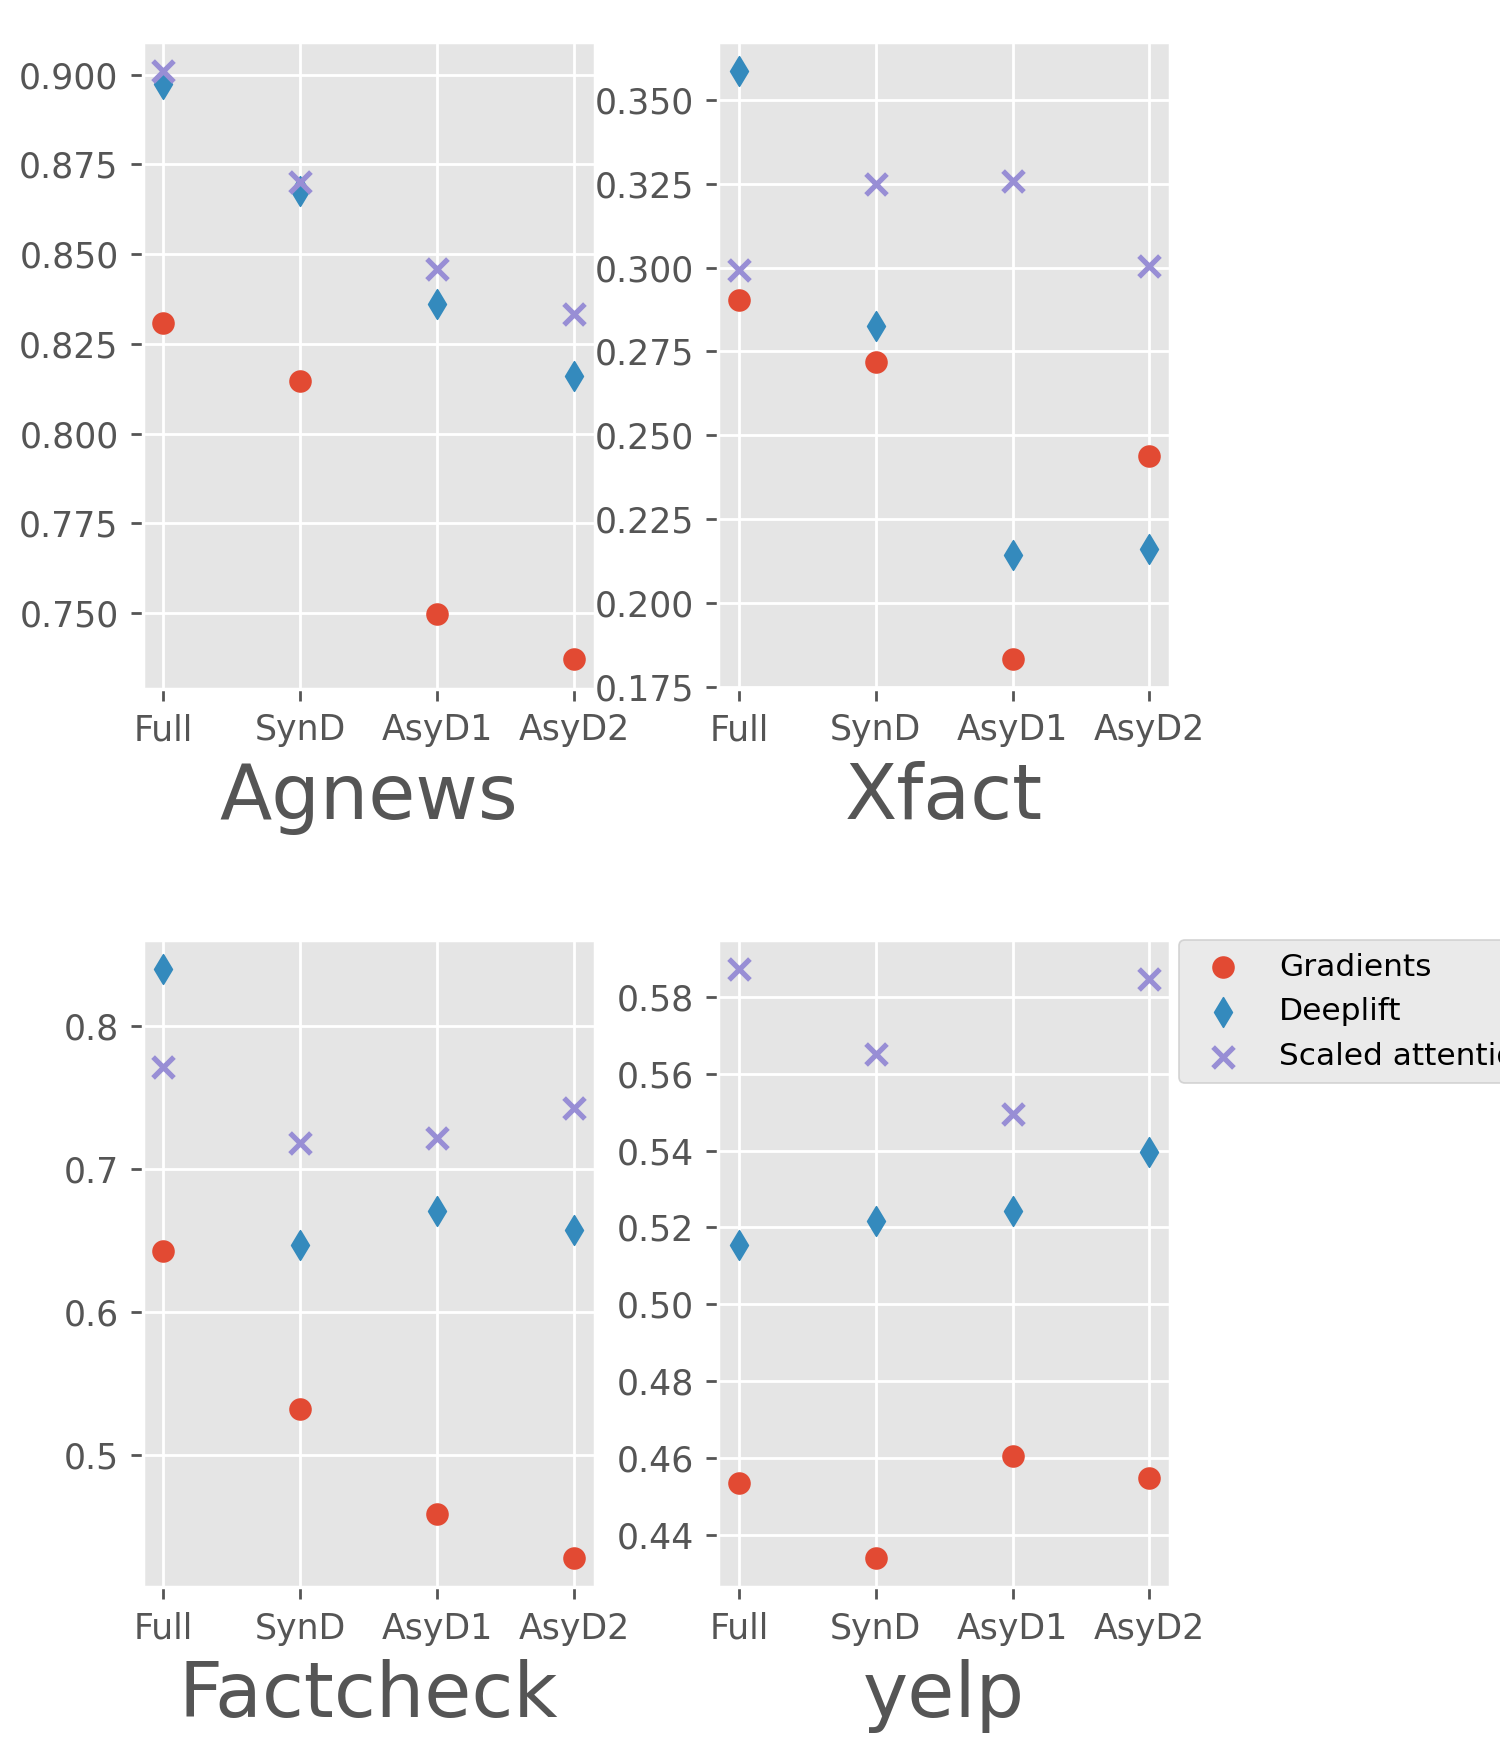
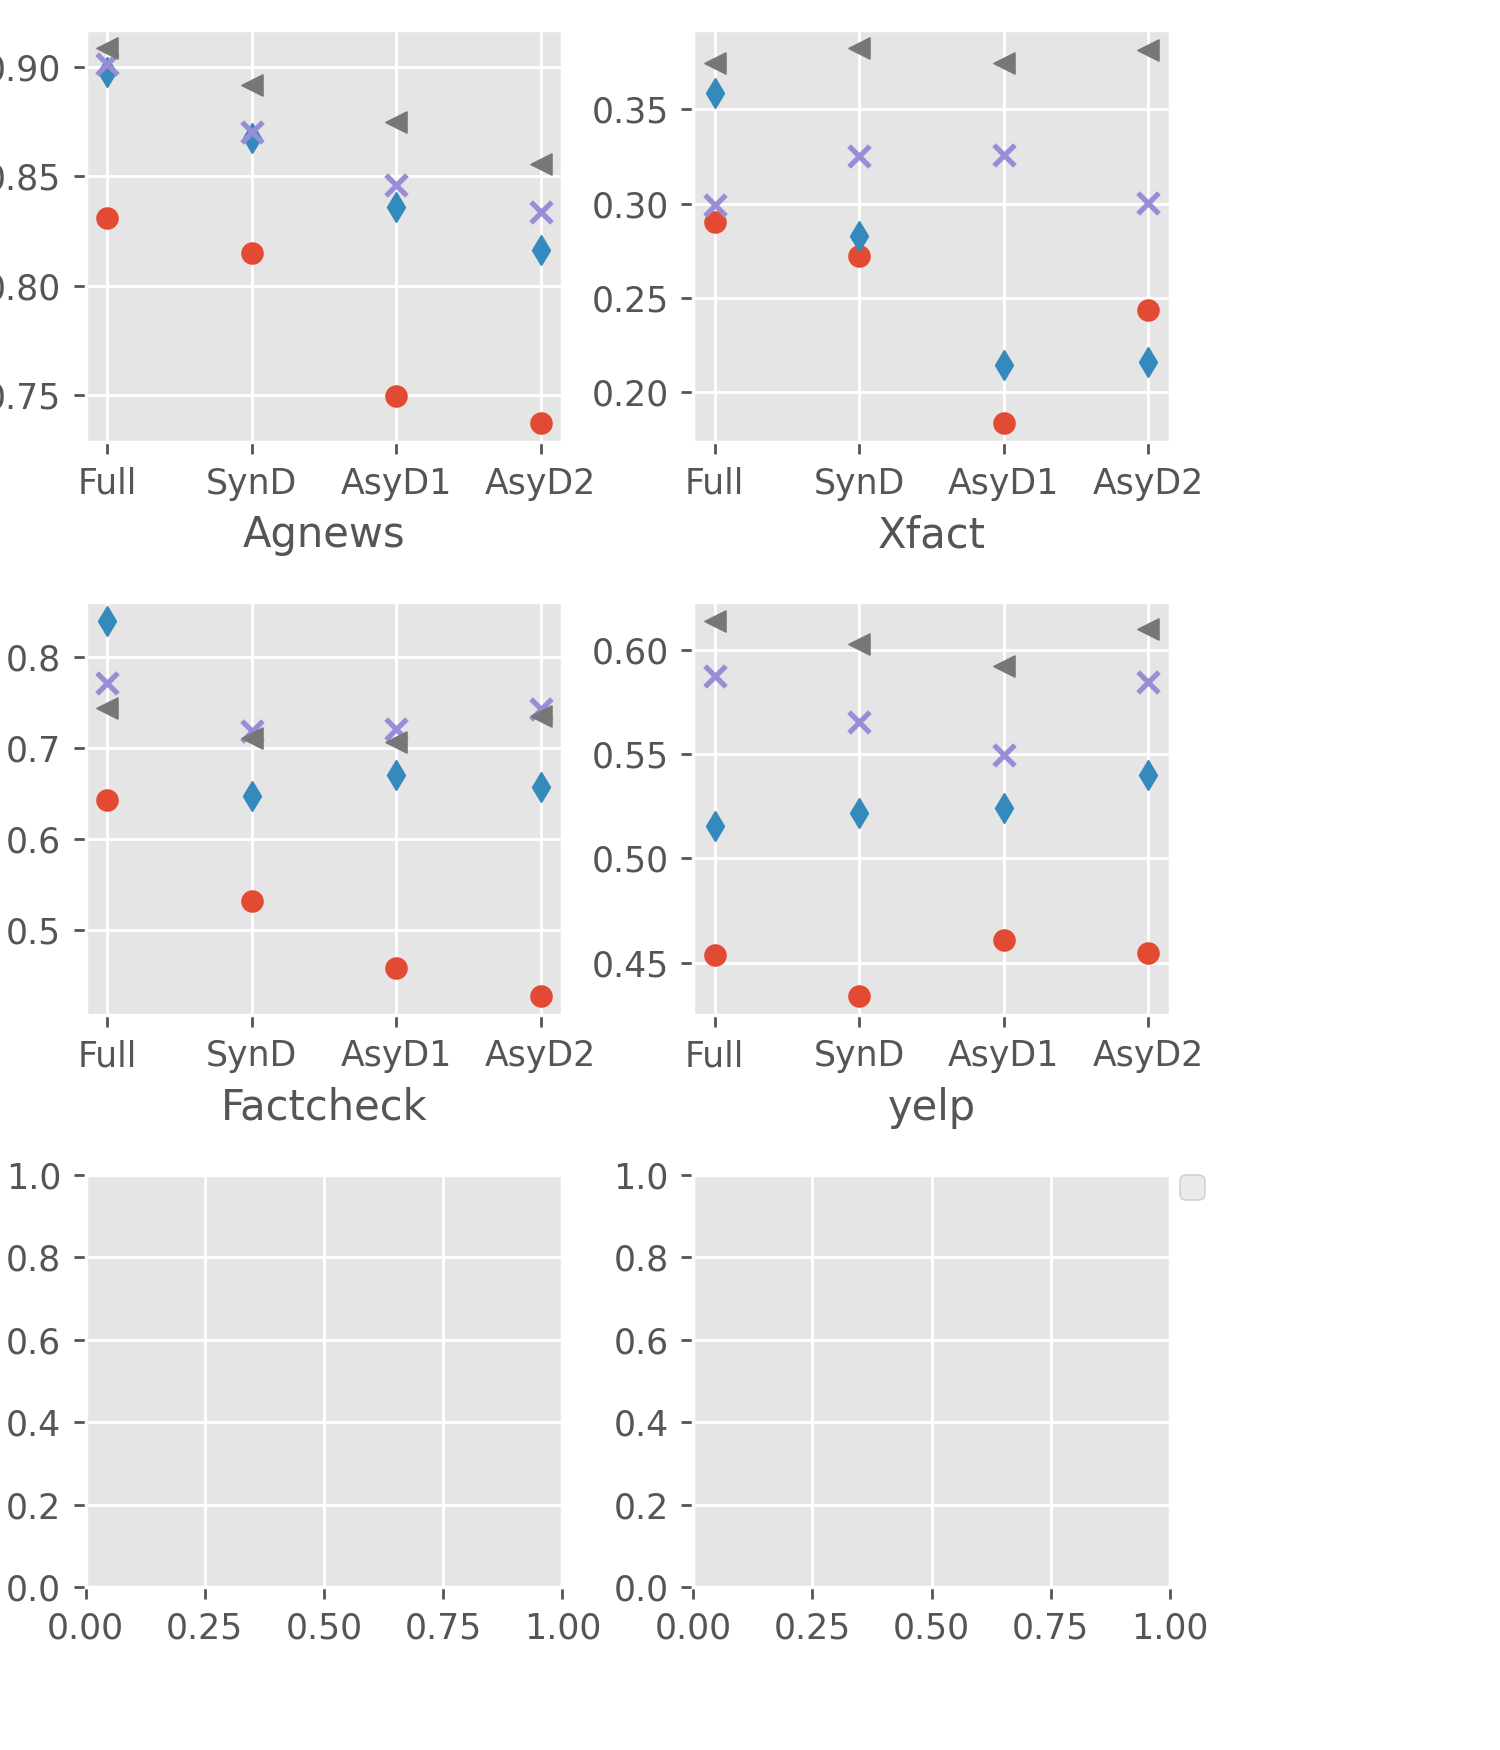
m

diff --git a/save_everything.py b/save_everything.py
@@ -115,7 +115,37 @@ datasets_dir = 'saved_everything/' + str(args.dataset)
 os.makedirs(datasets_dir, exist_ok = True)
 
 
+
+
+######################## 1. bert predictive resultes -- on In domain / ood1 / ood2
+if args.save_for_bert:
+    print('.....')
+    Full_data = pd.read_json('./models/' + str(args.dataset) + '_full/bert_predictive_performances.json')
+    InDomain = pd.read_json('./models/' + str(args.dataset) + '/bert_predictive_performances.json')
+    path = os.path.join('./models/', str(args.dataset),'bert_predictive_performances-OOD-' + str(args.dataset) + '_ood1.json')
+    OOD1 = pd.read_json(path)
+    path = os.path.join('./models/', str(args.dataset),'bert_predictive_performances-OOD-' + str(args.dataset) + '_ood2.json')
+    OOD2 = pd.read_json(path)
+
+    if args.get_all_seeds_for_predictive:
+        pass
+    else:
+        Full_data = Full_data[['mean-acc', 'std-acc', 'mean-f1', 'std-f1', 'mean-ece', 'std-ece']].iloc[0]
+        InDomain = InDomain[['mean-acc', 'std-acc', 'mean-f1', 'std-f1', 'mean-ece', 'std-ece']].iloc[0]
+        OOD1 = OOD1[['mean-acc', 'std-acc', 'mean-f1', 'std-f1', 'mean-ece', 'std-ece']].iloc[0]
+        OOD2 = OOD2[['mean-acc', 'std-acc', 'mean-f1', 'std-f1', 'mean-ece', 'std-ece']].iloc[0]
+
+    OOD12 = (OOD1 + OOD2)/2
+    Full_data['Domain'] = 'Full size'
+    InDomain['Domain'] = 'SynD'
+    OOD1['Domain'] = 'AsyD1'
+    OOD2['Domain'] = 'AsyD2'
+    #OOD12['Domain'] = 'AsyD1+2'
     
+
+    result = pd.concat([Full_data, InDomain, OOD1, OOD2], ignore_index=False, axis=1).T
+    result.to_csv('saved_everything/' + str(args.dataset) + '/bert_predictive.csv')
+####################################################################################   
 ######################## plot time distribution
 
 from datetime import datetime
@@ -346,35 +376,6 @@ if args.save_data_stat:
     df.to_csv('./saved_everything/'+ str(args.dataset) +'/dataset_stats.csv')
 
 
-
-######################## 1. bert predictive resultes -- on In domain / ood1 / ood2
-if args.save_for_bert:
-    Full_data = pd.read_json('./models/' + str(args.dataset) + '_full/bert_predictive_performances.json')
-    InDomain = pd.read_json('./models/' + str(args.dataset) + '/bert_predictive_performances.json')
-    path = os.path.join('./models/', str(args.dataset),'bert_predictive_performances-OOD-' + str(args.dataset) + '_ood1.json')
-    OOD1 = pd.read_json(path)
-    path = os.path.join('./models/', str(args.dataset),'bert_predictive_performances-OOD-' + str(args.dataset) + '_ood2.json')
-    OOD2 = pd.read_json(path)
-
-    if args.get_all_seeds_for_predictive:
-        pass
-    else:
-        Full_data = Full_data[['mean-acc', 'std-acc', 'mean-f1', 'std-f1', 'mean-ece', 'std-ece']].iloc[0]
-        InDomain = InDomain[['mean-acc', 'std-acc', 'mean-f1', 'std-f1', 'mean-ece', 'std-ece']].iloc[0]
-        OOD1 = OOD1[['mean-acc', 'std-acc', 'mean-f1', 'std-f1', 'mean-ece', 'std-ece']].iloc[0]
-        OOD2 = OOD2[['mean-acc', 'std-acc', 'mean-f1', 'std-f1', 'mean-ece', 'std-ece']].iloc[0]
-
-    OOD12 = (OOD1 + OOD2)/2
-    Full_data['Domain'] = 'Full'
-    InDomain['Domain'] = 'SynD'
-    OOD1['Domain'] = 'AsyD1'
-    OOD2['Domain'] = 'AsyD2'
-    #OOD12['Domain'] = 'AsyD1+2'
-    
-
-    result = pd.concat([Full_data, InDomain, OOD1, OOD2], ignore_index=False, axis=1).T
-    result.to_csv('saved_everything/' + str(args.dataset) + '/bert_predictive.csv')
-####################################################################################
 
 
 

diff --git a/saved_everything/all_tasks_all_fresh.py b/saved_everything/all_tasks_all_fresh.py
@@ -29,24 +29,30 @@ task_list = ['agnews', 'xfact', 'factcheck', 'yelp'] # 'AmazDigiMu', 'AmazPantry
 # df.to_csv('all_tasks_all_fresh_results.csv')
 
 plt.style.use('ggplot')
-fig, axs = plt.subplots(2, 2, figsize=(6, 7), sharey=False, sharex=False)
+fig, axs = plt.subplots(3, 2, figsize=(6, 7), sharey=False, sharex=False)
 
 marker_style = dict(color='tab:blue', linestyle=':', marker='d',
                     #markersize=15, markerfacecoloralt='tab:red',
                     )
-xlabel_size = 22
+xlabel_size = 12
 xtick_size = 22
-makersize = 60
+makersize = 66
 for i, name in enumerate(task_list):
     path = './' + str(name) + '/fresh_predictive_results.csv'
+    bert_path = './' + str(name) + '/bert_predictive.csv'
+    bert = pd.read_csv(bert_path)[['mean-f1', 'Domain']]
+    bert = bert.rename(columns={'mean-f1':'BERT'})
+    bert['Domain'] = ['Full', 'SynD', 'AsyD1', 'AsyD2']   
+
     df = pd.read_csv(path)
     df = df[['mean-f1','Domain','attribute_name']]
     attribute_list = df['attribute_name']
     df["attribute_name"].replace({"scaled_attention": "scaled attention"}, inplace=True)
-    print(df)
+    #print(df)
     grouper = df.groupby('attribute_name')
     df = pd.concat([pd.Series(v['mean-f1'].tolist(), name=k) for k, v in grouper], axis=1)
     df['Domain'] = ['Full', 'SynD', 'AsyD1', 'AsyD2']   
+    df['BERT'] = bert['BERT']
     print(df)
 
     if i == 3 or i == 4:
@@ -59,6 +65,7 @@ for i, name in enumerate(task_list):
         axs[0, i].scatter(df['Domain'], df['gradients'], label='Gradients') #, marker='x', s=makersize
         axs[0, i].scatter(df['Domain'], df['deeplift'], label='Deeplift', marker='d')
         axs[0, i].scatter(df['Domain'], df['scaled attention'], label='Scaled attention', marker='x')
+        axs[0, i].scatter(df['Domain'], df['BERT'], label='BERT', marker='<')
         axs[0, i].set_xlabel(SUB_NAME,fontsize=xlabel_size)
     # elif i > 3:
     #     axs[2, i-4].scatter(df['Domain'], df['Bert F1'], label='BERT', marker='x', s=makersize)
@@ -71,6 +78,7 @@ for i, name in enumerate(task_list):
         axs[1, i-2].scatter(df['Domain'], df['gradients'], label='Gradients')
         axs[1, i-2].scatter(df['Domain'], df['deeplift'], label='Deeplift', marker='d')
         axs[1, i-2].scatter(df['Domain'], df['scaled attention'], label='Scaled attention', marker='x')
+        axs[1, i-2].scatter(df['Domain'], df['BERT'], label='BERT', marker='<')
         axs[1, i-2].set_xlabel(SUB_NAME,fontsize=xlabel_size)
     
 #fig.suptitle('Predictive Performance Comparison of Selective Rationalizations', fontsize=12)

diff --git a/saved_everything/lollipop_ration.py b/saved_everything/lollipop_ration.py
@@ -24,7 +24,7 @@ df['mean-f1'] = df['mean-f1']*100
 
 print(df)
 
-data = 'Amazdigimu'
+data = 'AmazPantry'
 df = df[df['Task'].str.contains(str(data))]
 print(df)
 suff = df[df['Rationales_metrics'].str.contains('AOPC_sufficiency')]
@@ -67,7 +67,8 @@ elif data == 'Amazdigimu':
     suff_max = 3.5
     comp_min = 0.5
     comp_max = 3
-elif data == 'Amazpantry':
+    task_name = 'AmazDigiMu'
+elif data == 'AmazPantry':
     bert_min = 67
     bert_max = 72
     suff_min = 0.5
@@ -111,7 +112,10 @@ for x,y in zip(df['mean-f1'],df['Domain']):
                  fontsize= 13,
                  ) 
 ax[0].set_xlabel('BERT avg macro-F1',fontsize=xlabel_size)
-ax[0].set_ylabel(str(data), fontsize=xlabel_size)
+if data == 'Amazdigimu':
+    ax[0].set_ylabel('AmazDigiMu', fontsize=xlabel_size)
+else:
+    ax[0].set_ylabel(str(data), fontsize=xlabel_size)
 #ax[0].set_yticklabels(my_range, fontsize=13)
 
 plt.plot()
